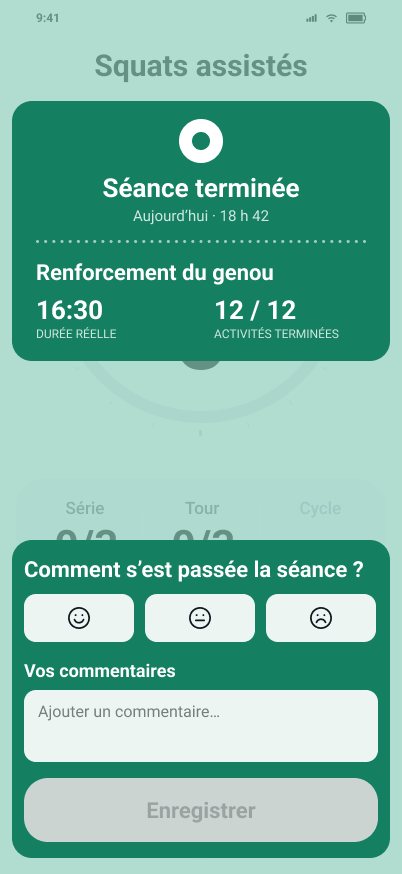
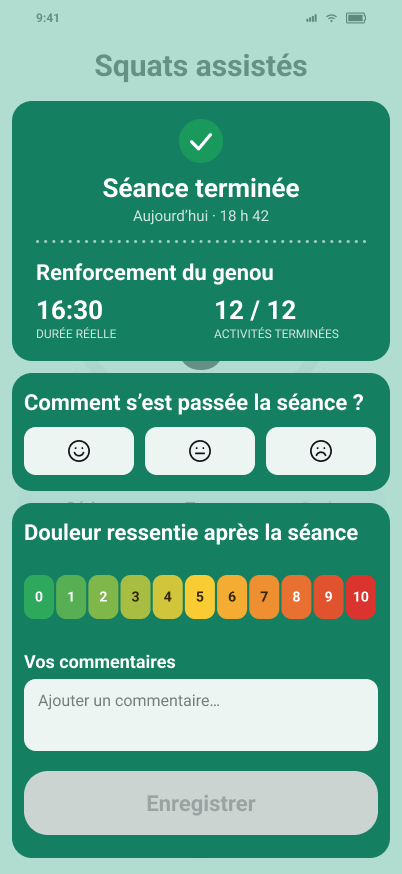
docs(D-578): fin de séance en trois cadres, douleur et commentaires en dernier
Classe B (décision de Hermann, 27/11/2026). Tests non applicables.

Claude-Session: https://claude.ai/code/session_0138cCmJPZqMKdiqcqtCSEpU

Changed region(s): [[0.0299, 0.4016, 0.9851, 0.9886], [0.4478, 0.1236, 0.5672, 0.1854], [0.8955, 0.8959, 0.9552, 0.9577]]

diff --git a/docs/Specifications-fonctionnelles/07 – Registre des décisions de conception.md b/docs/Specifications-fonctionnelles/07 – Registre des décisions de conception.md
@@ -2440,7 +2440,7 @@ Source : [KODJO-Catalogues-cartes-modales-2026-11-06](../KODJO-Catalogues-cartes
 | D-575 | **Pages des formats Tabata, 30/30, HIIT et Renforcement ; modale du Renforcement.** (1) Tabata, 30/30, HIIT : colonne « Objectif » renommée « Intervalle » ; la Durée totale est la dernière ligne du cadre des paramètres (après Exécution et, pour le Tabata à la suite, après « Récupération entre les mouvements ») ; la colonne Charge disparaît : la charge est écrite sous la valeur de l'intervalle, en plus petit et entre parenthèses, et rien n'est affiché quand il n'y a pas de charge. (2) Renforcement : même règle pour la charge (sous la valeur de la colonne Objectif) ; la Durée totale vient après la ligne Exécution ; la première colonne du tableau est « Séries » (nombre de séries de chaque mouvement) ; la ligne globale « Nombre de séries » est supprimée de la page. (2 bis) Death by : la charge est écrite sous la valeur de la colonne Départ, comme au point 1, et la colonne Charge disparaît. (2 ter) Dans les tableaux de ces formats, la dernière colonne est alignée à droite. (3) Modale « Paramètres d'exécution » du Renforcement : un premier cadre porte le Mode seul ; un deuxième réunit Nombre de répétitions, Nombre de séries, Pause et Charge ; un troisième De chaque côté + Cadence (D-572). (3 bis) Renforcement, nombre de séries : « À la suite », chaque mouvement a son propre nombre de séries ; « En alternance », les mouvements partagent les tours : le nombre de séries est commun et lié (le modifier pour un mouvement le modifie pour tous, dans le tableau comme dans la modale) ; le passage à « À la suite » conserve la valeur actuelle de chaque mouvement, qui peuvent ensuite différer. (4) Zone de contexte (Composition) : la durée totale est alignée à droite, en noir, au premier plan, par-dessus l'emplacement de l'illustration ; Progression : Durée totale après Exécution. Décisions de Hermann, 26/11/2026 ; la ligne Pause de la modale porte la colonne Pause de la page. | Validée — 26/11/2026 | [KODJO-Formats-entrainement-2026-11-02](../KODJO-Formats-entrainement-2026-11-02.md) § 9.10 |
 | D-576 | **Exécution d'un exercice : permutation des vues et changement de média.** (1) Un glissé horizontal (gauche ou droite) sur la zone du haut permute cadran ↔ gros chiffres ; sur la zone du bas (carte des informations ou média) il permute infos ↔ média. (2) Aucun écran d'exécution ne comporte de bouton ⇄ (retirés partout dans Figma le 26/11/2026) : la permutation des vues se fait uniquement par le glissé. [Remplace le bouton de changement de face de D-203 et la proposition du 26/11/2026 de deux boutons ⇄.] (3) Le glissé ne change plus de média : le changement de média se fait avec des flèches gauche/droite sur la zone média ; la galerie reste à plusieurs médias, ordre de la galerie, non circulaire, flèche inactive à la borne, pagination conservée. (4) Le média reste à la taille du demi-écran tant que le bouton d'extension n'est pas actionné ; les flèches de changement de média existent aussi en plein écran. Décisions de Hermann, 26/11/2026. | Validée — 26/11/2026 | [CONCEPTION-EXECUTION-MEDIA](../CONCEPTION-EXECUTION-MEDIA.md) § 5 |
 | D-577 | **Écran « Avant la séance » (affiché avant l'écran d'exécution avec le compte à rebours).** (1) Contenu : en-tête DSF avec bouton Retour et, pour titre, le nom de la séance (pas de zone de contexte, pas de trait de séparation) ; liste en lignes de texte, sans rail ni cartes (ce n'est pas une copie de la composition), des exercices, cycles et circuits qui vont être exécutés, dans l'ordre de la composition, avec le format de chaque circuit mis en évidence (chiffre en premier : « 8 tours · TABATA » (nom du format en majuscules, pour qu'on voie bien quel format est utilisé ; « Circuit libre » quand le circuit n'a pas de format), « 3 tours · Circuit libre », « 2 cycles » ; sans le détail des durées ni la nature groupées/alternées) ; bouton Commencer. (2) Lancement dans un Programme dont l'option douleur est active (D-427) : échelle de douleur 0–10 (libellé « Douleur ressentie avant la séance », sans légende : les cases 0 à 10 sont colorées du vert au rouge selon leur niveau, les couleurs suffisant à indiquer le sens de l'échelle) obligatoire, sans présélection, Le bouton de départ est inactif tant qu'aucun chiffre n'est choisi ; l'écran est toujours affiché. (3) Autre lancement : pas d'échelle de douleur ; une case à cocher « Ne plus afficher cet écran » est proposée, uniquement dans ce cas, en plus petit, hors du cadre vert, entre le cadre de la liste et celui de la douleur. Elle désactive l'affichage de l'écran pour cette séance seulement, jusqu'à ce que l'ordre ou le contenu de la séance (exercices, cycles, circuits, formats) change ; un changement des paramètres d'exécution (durées, répétitions) ne le fait pas réapparaître. Pour toutes les séances, le réglage « Afficher l'écran de démarrage de séance » (interrupteur, activé par défaut, premier réglage du groupe Séance de Profil › Préférences) affiche l'écran pour toute séance ; désactivé, il ne l'affiche pour aucune. La capture de la douleur ne dépend que du Programme (option douleur, D-427) et n'est pas concernée : les deux informations (liste de la séance, douleur) sont distinctes ; avec l'option douleur active, ni la case ni le réglage ne suppriment la capture : quand l'affichage est désactivé, seule la douleur est demandée : même écran, avec uniquement le deuxième cadre (douleur et départ), centré verticalement sur la page. [Remplace la mention « Facultatif. Sans réponse, la douleur est notée 0 » de l'ancienne version de l'écran, contraire à D-427.] (4) Parcours de plusieurs séances : l'écran existe en deux versions, une pour la première séance, une pour les suivantes (rang ≥ 2, écran de transition avant la séance suivante). La douleur est demandée une seule fois, sur la version de la première séance, et appliquée à toutes les séances du parcours ; la version des séances suivantes n'a pas d'échelle de douleur. Cette version est dessinée dans l'écran Figma « Exécution d'une séance — Initial — Enchaînement (proposition) » (`12716:25405`), qui reprend la présentation de l'écran de la première séance sans l'échelle de douleur (un seul grand cadre vert centré dans la page, contenant le titre, la liste et le bouton « Appuyer pour démarrer la 2ème séance » ; sans « du parcours »), sur le voile vert. (5) Présentation : le premier écran d'exécution de la séance est visible en fond, recouvert sur toute la hauteur du voile vert de l'écran de transition entre séances (DSF-AGENDA), identique à celui de l'écran de transition (même teinte, ≈ 35 %), posé sur un voile blanc à 50 % qui estompe l'écran d'exécution sans assombrir le vert ; le nom n'est pas affiché dans l'en-tête, il l'est comme titre de la carte ; le contenu est porté par une carte blanche, le bouton Retour DSF restant au-dessus du voile. La liste est présentée en une seule taille de texte agrandie (22 pt pour cycles, circuits, formats et exercices ; le titre « Mobilisation du genou » reste à sa taille propre, 26 pt), avec un espace supplémentaire avant chaque bloc circuit ou format (ex. Tabata), les cycles, circuits et formats se distinguant par le gras, sur une carte vert foncé (celui de l'encadré de la transition entre séances) aux textes blancs, avec une indentation par niveau (cycle, circuit, exercices du circuit) ; le titre de la carte (nom de la séance, ou du parcours : « Mobilisation du genou » dans l'écran) est affiché en plus grand, en gras, centré, avec davantage d'espace au-dessus et en dessous, à égale distance du haut du cadre et d'une ligne de pointillés blancs qui le sépare de la liste ; si le titre est trop long, il passe sur deux lignes ; si la liste est plus longue, la carte s'étend vers le haut (le bas reste ancré au-dessus de la carte douleur et départ) ; si elle dépasse encore la hauteur disponible, seule la liste défile, le titre restant toujours visible ; la douleur et Commencer sont sur une carte distincte, en bas de l'écran, de même vert foncé, libellé (gras, 22 pt comme les cycles et circuits) et légende en blanc. Les textes de la liste, de l'échelle de douleur et du bouton de départ sont en Roboto. Chaque exercice de la liste, hors le premier mis en avant, est précédé d'un petit point de liste. (6) Bouton de départ, de hauteur doublée (96 pt) et à texte agrandi : « Appuyer pour démarrer la séance » (séance lancée seule), « Appuyer pour démarrer le parcours » (première séance d'un parcours), « Appuyer pour démarrer la Xème séance du parcours » (séances suivantes), en texte agrandi sur deux lignes, sur fond blanc avec texte bleu du DSF et un effet de relief porté par le bouton lui-même (léger dégradé et bord inférieur épais, sans ombre portée) qui le fait lire comme un bouton (le bouton bleu standard manque de contraste sur le vert). Le chiffre choisi ressort par une case nettement plus grande (≈ 40 × 58 pt), un chiffre plus gros et une ombre portée, sans liseré. Avec l'échelle de douleur, il est inactif tant qu'aucun chiffre n'est choisi ; état inactif (Figma `13419:1329`) : bouton sur fond gris, sans relief, texte gris plus clair ; toutes les cases de l'échelle de même taille, aucune sélectionnée ; l'écran Figma le montre activé, douleur choisie. Décisions de Hermann, 27/11/2026. | Validée — 27/11/2026 | Figma « P-Avant la séance — Douleur » (`8921:35275`) et « Enchaînement (proposition) » (`12716:25405`) ; ch13 CE-EXEC-SESSION-01 ; rendu : `docs/DSF-AVANT-SEANCE-2026-11-27.md` |
-| D-578 | **Écran de fin de séance, état initial (Terminée — évaluation initiale).** Présentation reprise de l'écran « Avant la séance » (D-577) : l'écran d'exécution de la séance en fond sous les deux voiles (blanc 50 %, vert `#1F9E7A` 35 %), le contenu sur deux cadres vert `#148061` aux textes blancs, polices Roboto. Cadre du haut : statut « Séance terminée » (pastille, date et heure), ligne de pointillés blancs, nom de la séance, durée réelle et activités terminées (« 12 / 12 »). Cadre du bas, ancré en bas : « Comment s'est passée la séance ? » avec les trois boutons de ressenti, « Vos commentaires » avec son champ facultatif, bouton Enregistrer (inactif tant qu'aucun ressenti n'est choisi, fond gris, texte plus clair). Le détail de la liste des exercices réalisés est retiré de cet écran. Pas de bouton Retour sur cet écran. Décisions de Hermann, 27/11/2026 ; les autres états de la synthèse (ressenti sélectionné, séance partielle) reprennent cette présentation : À CLARIFIER / à décliner. | Validée — 27/11/2026 | Figma « P-Synthèse de séance — Terminée — Évaluation initiale » (`1992:8718`) ; ch13 CE-UI-08 |
+| D-578 | **Écran de fin de séance, état initial (Terminée — évaluation initiale).** Présentation reprise de l'écran « Avant la séance » (D-577) : l'écran d'exécution de la séance en fond sous les deux voiles (blanc 50 %, vert `#1F9E7A` 35 %), le contenu sur **trois cadres** vert `#148061` aux textes blancs, polices Roboto. Cadre 1 : symbole de séance terminée (identique à l'icône « Complétée » de l'Agenda, 44 pt), « Séance terminée », date et heure, ligne de pointillés blancs, nom de la séance, durée réelle et activités terminées (« 12 / 12 »). Cadre 2 : « Comment s'est passée la séance ? » avec les trois boutons de ressenti. Cadre 3, **en dernier** : « Douleur ressentie après la séance » (échelle 0 à 10 colorée, D-577), « Vos commentaires » (champ facultatif) et bouton Enregistrer (inactif, fond gris, tant qu'aucun ressenti n'est choisi). La douleur n'est demandée que si le programme l'active (D-427) ; sinon le cadre 3 ne contient que les commentaires et Enregistrer. Le détail de la liste des exercices réalisés est retiré. Pas de bouton Retour. Les autres états de la synthèse (ressenti sélectionné, séance partielle) sont à décliner sur cette présentation. | Validée — 27/11/2026 | Figma « P-Synthèse de séance — Terminée — Évaluation initiale » (`1992:8718`) ; ch13 CE-UI-08 |
 
 
 

diff --git a/docs/Specifications-fonctionnelles/13 – Contrats d’écran.md b/docs/Specifications-fonctionnelles/13 – Contrats d’écran.md
@@ -534,7 +534,7 @@ L’inventaire ci-dessous suit les frames `P-` de la page Figma `Prototype MVP` 
 | [`1992:6838`](https://www.figma.com/design/G6RY5Ebhgwb4AHIOYDwwvg?node-id=1992-6838) | Planifier une séance — Création | `CE-UI-05` | — |
 | [`1992:8132`](https://www.figma.com/design/G6RY5Ebhgwb4AHIOYDwwvg?node-id=1992-8132) | Exécution d'une séance — Démarrée | `CE-EXEC-SESSION-01` | — |
 | [`4968:8188`](https://www.figma.com/design/G6RY5Ebhgwb4AHIOYDwwvg?node-id=4968-8188) | Exécution d'un exercice — Démarrée | `CE-T03-10` | — |
-| [`1992:8718`](https://www.figma.com/design/G6RY5Ebhgwb4AHIOYDwwvg?node-id=1992-8718) | Synthèse de séance — Terminée —  Évaluation initiale | `CE-UI-08` | D-578 — présentation de l'écran « Avant la séance » (deux cadres verts sur l'écran d'exécution voilé), sans la liste des exercices réalisés ; Enregistrer inactif sans ressenti |
+| [`1992:8718`](https://www.figma.com/design/G6RY5Ebhgwb4AHIOYDwwvg?node-id=1992-8718) | Synthèse de séance — Terminée —  Évaluation initiale | `CE-UI-08` | D-578 — présentation de l'écran « Avant la séance » (trois cadres verts sur l'écran d'exécution voilé : synthèse, ressenti, puis douleur + commentaires + Enregistrer), sans la liste des exercices réalisés ; Enregistrer inactif sans ressenti ; symbole identique à « Complétée » de l'Agenda |
 | [`4968:8055`](https://www.figma.com/design/G6RY5Ebhgwb4AHIOYDwwvg?node-id=4968-8055) | Synthèse d'exécution — Exercice Terminé —  Évaluation initiale | `CE-T03-14` | — |
 | [`1992:8843`](https://www.figma.com/design/G6RY5Ebhgwb4AHIOYDwwvg?node-id=1992-8843) | Suivi — Séances — Liste condensée [écran supprimé le 20/11/2026 : historique présenté dans l’Agenda] | `CE-T03-15` | — |
 | [`1992:9910`](https://www.figma.com/design/G6RY5Ebhgwb4AHIOYDwwvg?node-id=1992-9910) | Catalogue des séances — Liste par défaut | `CE-T03-01` | — |

diff --git a/.github/orchestration/reports/2026-11-18_PLANIF-GRILLE-DOC.md b/.github/orchestration/reports/2026-11-18_PLANIF-GRILLE-DOC.md
@@ -352,3 +352,4 @@
 - Complément (suite 20 quaterdecies, D-577) : douleur seule = même écran avec uniquement le deuxième cadre centré verticalement (recadrage, non dessiné) ; état sans choix dessiné (13419:1329) : cases identiques, bouton inactif gris à texte plus clair. D-577, DSF, prompt, ch06 alignés. Classe B ; tests non applicables.
 - Complément (suite 21, clôture) : DSF, prompt Claude Code (réorganisé : affichage décidé au point 7, état sans choix au point 8), ch13 (ligne 13419:1329), ch06 et D-577 alignés sur l'état final de Figma (8921:35275, 12716:25405, 13419:1329, 1992:684). Classe B ; tests non applicables ; vérification sur iPhone à faire (défilement de la liste, lisibilité sur le voile, case choisie, état inactif, Préférences).
 - Complément (suite 22, D-578) : écran « P-Synthèse de séance — Terminée — Évaluation initiale » (1992:8718) recomposé avec la présentation de « Avant la séance » ; conservés : Séance terminée, chiffres de synthèse, boutons de ressenti, commentaire ; retiré : détail de la liste des exercices réalisés ; pas de bouton Retour. D-578 créé ; ch06 (capture) et ch13 alignés. Autres états de la synthèse (ressenti sélectionné, partielle) non repris : à décliner. Classe B ; tests non applicables.
+- Complément (suite 22 bis, D-578) : écran de fin de séance 1992:8718 passé à trois cadres (synthèse, ressenti, douleur après + commentaires + Enregistrer en dernier) ; symbole « Séance terminée » aligné sur l'icône « Complétée » de l'Agenda. Classe B ; tests non applicables.
